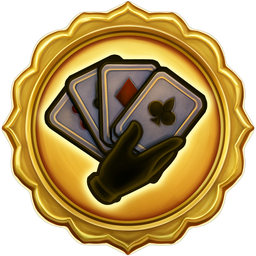
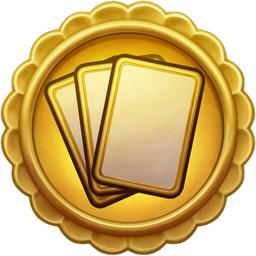
The title bar steps aside — the Ledger gives its page back to the page
NEW RITUALS MEDALLION
Three plain fanned cards, blank faces, gold edges. The first pass drew a
classic 52-card hand (suits and all) and the second leaned on crests, which
this game does not use; both are now blocked in the prompt along with hands,
which MJ cannot draw. deed-chap-b.png replaced in place — nothing else moved.

THE PHONE HAD NO ROOM
Root cause, and it is embarrassing: every phone rule in this file keys off
(orientation: landscape) and (max-height: 540px), because FAVOR is landscape-
locked on phones and a handset is ~844x390. The Ledger's rules keyed off
max-width: 460px — which NEVER matches a landscape phone. The type tightening
shipped for phones has been dead code on the only device it was written for.
Now on the house breakpoint, with the max-width arm kept for narrow windows.

- The title bar folds away as soon as the reader moves down the page, and
  comes back when they return to the top. On a 844x390 phone that turns three
  visible entries into six.
- The tab rail tightens on the same breakpoint (34px medallions, smaller
  labels): between them the chrome was taking more of the panel than the
  entries were.
- The close mark moved out of the head and onto the PANEL. Folding the head
  away would otherwise have taken the only way out with it, trapping the
  reader on the page. It wears a dark chip once the head is gone so it still
  reads against vellum.
- The threshold is 12px of slack so a rubber-band bounce cannot flap it, and
[…]

diff --git a/index.html b/index.html
@@ -4,11 +4,11 @@
     <meta charset="UTF-8">
     <meta name="viewport" content="width=device-width, initial-scale=1.0, viewport-fit=cover">
     <title>FAVOR — A Game of Royal Succession</title>
-    <link rel="stylesheet" href="css/style.css?v=20260805175127">
+    <link rel="stylesheet" href="css/style.css?v=20260805182349">
     <!-- Skylar's melee cinematic — loaded AFTER style.css so its .ms-* rules win. -->
-    <link rel="stylesheet" href="css/melee.css?v=20260805175127">
+    <link rel="stylesheet" href="css/melee.css?v=20260805182349">
     <!-- How to Play — the guided game's shield, spotlight and prompt. -->
-    <link rel="stylesheet" href="css/tutorial.css?v=20260805175127">
+    <link rel="stylesheet" href="css/tutorial.css?v=20260805182349">
     <link rel="icon" type="image/png" href="assets/ui/favicon-serpent.png">
     <link rel="apple-touch-icon" href="assets/ui/favicon-serpent.png">
 </head>
@@ -207,10 +207,10 @@
              Wide hall reads top-down — Almanac, Ledger, cog. Phones stack up
              from the corner, which puts the Ledger above the book (Wyatt 8/5). -->
         <button class="ts-alm" id="almanacBtn" onclick="window.FALM && FALM.open()" title="Royal Almanac" aria-label="Royal Almanac">
-            <img src="assets/ui/almanac-book.png?v=20260805175127" alt="">
+            <img src="assets/ui/almanac-book.png?v=20260805182349" alt="">
         </button>
         <button class="ts-deed" id="deedsBtn" onclick="window.FDEED && FDEED.openGallery()" title="The Ledger of Deeds" aria-label="The Ledger of Deeds">
-            <img src="assets/ui/deed-scroll.png?v=20260805175127" alt="">
+            <img src="assets/ui/deed-scroll.png?v=20260805182349" alt="">
         </button>
     </div>
 
@@ -304,7 +304,7 @@
                      billing / Valve wallet) covers digital goods only. -->
                 <a class="st-real" href="https://corkscrewgames.com/collections/other-games/products/favor"
                    target="_blank" rel="noopener">
-                    <img class="st-real-box" src="assets/ui/favor-box-1st.webp?v=20260805175127"
+                    <img class="st-real-box" src="assets/ui/favor-box-1st.webp?v=20260805182349"
                          alt="The FAVOR 1st Edition box">
                     <span class="st-real-copy">
                         <span class="st-real-head">FAVOR First Edition</span>
@@ -665,29 +665,29 @@
          falls back to local standings if these can't reach the project) -->
     <script defer src="https://www.gstatic.com/firebasejs/9.23.0/firebase-app-compat.js"></script>
     <script defer src="https://www.gstatic.com/firebasejs/9.23.0/firebase-database-compat.js"></script>
-    <script defer src="data/cards.js?v=20260805175127"></script>
-    <script defer src="data/missions.js?v=20260805175127"></script>
-    <script defer src="data/characters.js?v=20260805175127"></script>
-    <script defer src="data/achievements.js?v=20260805175127"></script>
-    <script defer src="data/deeds.js?v=20260805175127"></script>
-    <script defer src="data/playbook.js?v=20260805175127"></script>
-    <script defer src="engine/gameState.js?v=20260805175127"></script>
-    <script defer src="js/ai.js?v=20260805175127"></script>
-    <script defer src="js/telemetry.js?v=20260805175127"></script>
-    <script defer src="js/melee.js?v=20260805175127"></script>
-    <script defer src="js/ui.js?v=20260805175127"></script>
-    <script defer src="js/sfx.js?v=20260805175127"></script>
-    <script defer src="js/tablefx-pts.js?v=20260805175127"></script>
-    <script defer src="js/tablefx.js?v=20260805175127"></script>
-    <script defer src="js/ambient.js?v=20260805175127"></script>
-    <script defer src="js/meta.js?v=20260805175127"></script>
-    <script defer src="js/achievements.js?v=20260805175127"></script>
-    <script defer src="js/deeds.js?v=20260805175127"></script>
-    <script defer src="js/almanac.js?v=20260805175127"></script>
-    <script defer src="js/settings.js?v=20260805175127"></script>
-    <script defer src="js/mp.js?v=20260805175127"></script>
-    <script defer src="js/modes.js?v=20260805175127"></script>
+    <script defer src="data/cards.js?v=20260805182349"></script>
+    <script defer src="data/missions.js?v=20260805182349"></script>
+    <script defer src="data/characters.js?v=20260805182349"></script>
+    <script defer src="data/achievements.js?v=20260805182349"></script>
+    <script defer src="data/deeds.js?v=20260805182349"></script>
+    <script defer src="data/playbook.js?v=20260805182349"></script>
+    <script defer src="engine/gameState.js?v=20260805182349"></script>
+    <script defer src="js/ai.js?v=20260805182349"></script>
+    <script defer src="js/telemetry.js?v=20260805182349"></script>
+    <script defer src="js/melee.js?v=20260805182349"></script>
+    <script defer src="js/ui.js?v=20260805182349"></script>
+    <script defer src="js/sfx.js?v=20260805182349"></script>
+    <script defer src="js/tablefx-pts.js?v=20260805182349"></script>
+    <script defer src="js/tablefx.js?v=20260805182349"></script>
+    <script defer src="js/ambient.js?v=20260805182349"></script>
+    <script defer src="js/meta.js?v=20260805182349"></script>
+    <script defer src="js/achievements.js?v=20260805182349"></script>
+    <script defer src="js/deeds.js?v=20260805182349"></script>
+    <script defer src="js/almanac.js?v=20260805182349"></script>
+    <script defer src="js/settings.js?v=20260805182349"></script>
+    <script defer src="js/mp.js?v=20260805182349"></script>
+    <script defer src="js/modes.js?v=20260805182349"></script>
     <!-- The guided How to Play. Inert unless ?tutorial=1 is on the URL. -->
-    <script defer src="js/tutorial.js?v=20260805175127"></script>
+    <script defer src="js/tutorial.js?v=20260805182349"></script>
 </body>
 </html>

diff --git a/css/style.css b/css/style.css
@@ -9000,6 +9000,20 @@ body.no-play-glow .hand-card.playable {
 /* .ach-x is absolutely positioned top-right, so it reserves no flex space —
    hold a lane open for it or a long title runs underneath the ✕. */
 .deed-gallery .deed-heading { flex: 1 1 auto; min-width: 0; padding-right: 26px; }
+
+/* The close mark hangs off the PANEL rather than the head, because the head
+   folds away on a phone and taking the only way out with it would trap the
+   reader on the page. Once the head is gone it wears a dark chip so it still
+   reads against vellum. */
+.deed-gallery .ach-x {
+    z-index: 4; width: 30px; height: 30px; padding: 0;
+    display: grid; place-items: center; border-radius: 50%;
+    transition: background .18s ease, color .18s ease;
+}
+.deed-gallery.deed-scrolled .ach-x {
+    background: rgba(20,14,8,.74); color: #e8d9a8;
+    box-shadow: 0 2px 8px rgba(0,0,0,.5);
+}
 .deed-gallery .ach-title { font-family: 'Cinzel', serif; }
 
 /* ── Chapter tabs: the Almanac's medallion language, scrollable for 10 ── */
@@ -9137,12 +9151,38 @@ body.no-play-glow .hand-card.playable {
 .deed-row.ruin.got .deed-text b { color: #5d4a3d; }
 .deed-row.ruin.got { background: linear-gradient(90deg, rgba(120,110,100,.16), transparent 55%); }
 
-/* ── Phone: tighten the type, and let the rank chip shrink ── */
-@media (max-width: 460px) {
+/* ── Phone ───────────────────────────────────────────────────────────────
+   The house breakpoint is (orientation: landscape) and (max-height: 540px) —
+   FAVOR is landscape-locked on phones, so a handset is ~844×390 and a
+   max-WIDTH query never matches one. These rules used to key off max-width
+   and were therefore dead on the only device they were written for. The
+   max-width arm is kept for a narrow desktop window.                      */
+@media (orientation: landscape) and (max-height: 540px), (max-width: 460px) {
     .deed-page { margin: 8px; }
     .deed-text b { font-size: 13.5px; }
     .deed-text i { font-size: 11.5px; }
     .deed-rank { font-size: 8.5px; padding: 2px 5px; letter-spacing: .06em; }
+
+    /* the rail, tightened — it and the title bar together were taking more
+       of the panel than the entries were */
+    .deed-tabs { padding: 6px 10px; gap: 4px; }
+    .deed-tab { min-width: 52px; padding: 4px 6px 3px; }
+    .deed-tab-art { width: 34px; height: 34px; font-size: 14px; }
+    .deed-tab-lbl { font-size: 9.5px; }
+    .deed-tab-n { font-size: 9px; }
+
+    /* and the title folds away the moment the reader moves down the page,
+       coming back when they return to the top */
+    .deed-gallery .ach-head {
+        overflow: hidden; max-height: 120px;
+        transition: max-height .22s ease, padding .22s ease, opacity .16s ease;
+    }
+    .deed-gallery.deed-scrolled .ach-head {
+        max-height: 0; padding-top: 0; padding-bottom: 0; opacity: 0;
+    }
+}
+@media (prefers-reduced-motion: reduce) {
+    .deed-gallery .ach-head, .deed-gallery .ach-x { transition: none; }
 }
 
 /* ── "This court is unsaved" ── */

diff --git a/js/deeds.js b/js/deeds.js
@@ -421,6 +421,7 @@
         const pct = defs.length ? got / defs.length : 0;
         ov.innerHTML = `
             <div class="ach-inner">
+                <button class="ach-x" aria-label="Close">✕</button>
                 <div class="ach-head">
                     <div class="deed-progress">
                         <svg viewBox="0 0 54 54" width="54" height="54" aria-hidden="true">
@@ -437,7 +438,6 @@
                         <div class="ach-title">The Ledger of Deeds</div>
                         <div class="ach-sub">${got} of ${defs.length} recorded</div>
                     </div>
-                    <button class="ach-x" aria-label="Close">✕</button>
                 </div>
                 <div class="deed-tabs"></div>
                 <div class="deed-page"></div>
@@ -544,8 +544,16 @@
             }
         }
 
-        function draw() { drawTabs(); drawPage(); pageEl.scrollTop = 0; }
+        function draw() { drawTabs(); drawPage(); pageEl.scrollTop = 0; ov.classList.remove('deed-scrolled'); }
         draw();
+
+        // On a phone the title bar and the tab rail eat more of the panel
+        // than the entries do. Reading the ledger folds the title away; coming
+        // back to the top brings it back. The threshold is a few pixels of
+        // slack so a rubber-band bounce cannot flap it.
+        pageEl.addEventListener('scroll', () => {
+            ov.classList.toggle('deed-scrolled', pageEl.scrollTop > 12);
+        }, { passive: true });
 
         ov.querySelector('.ach-x').onclick = closeGallery;
         ov.onclick = (e) => { if (e.target === ov) closeGallery(); };
